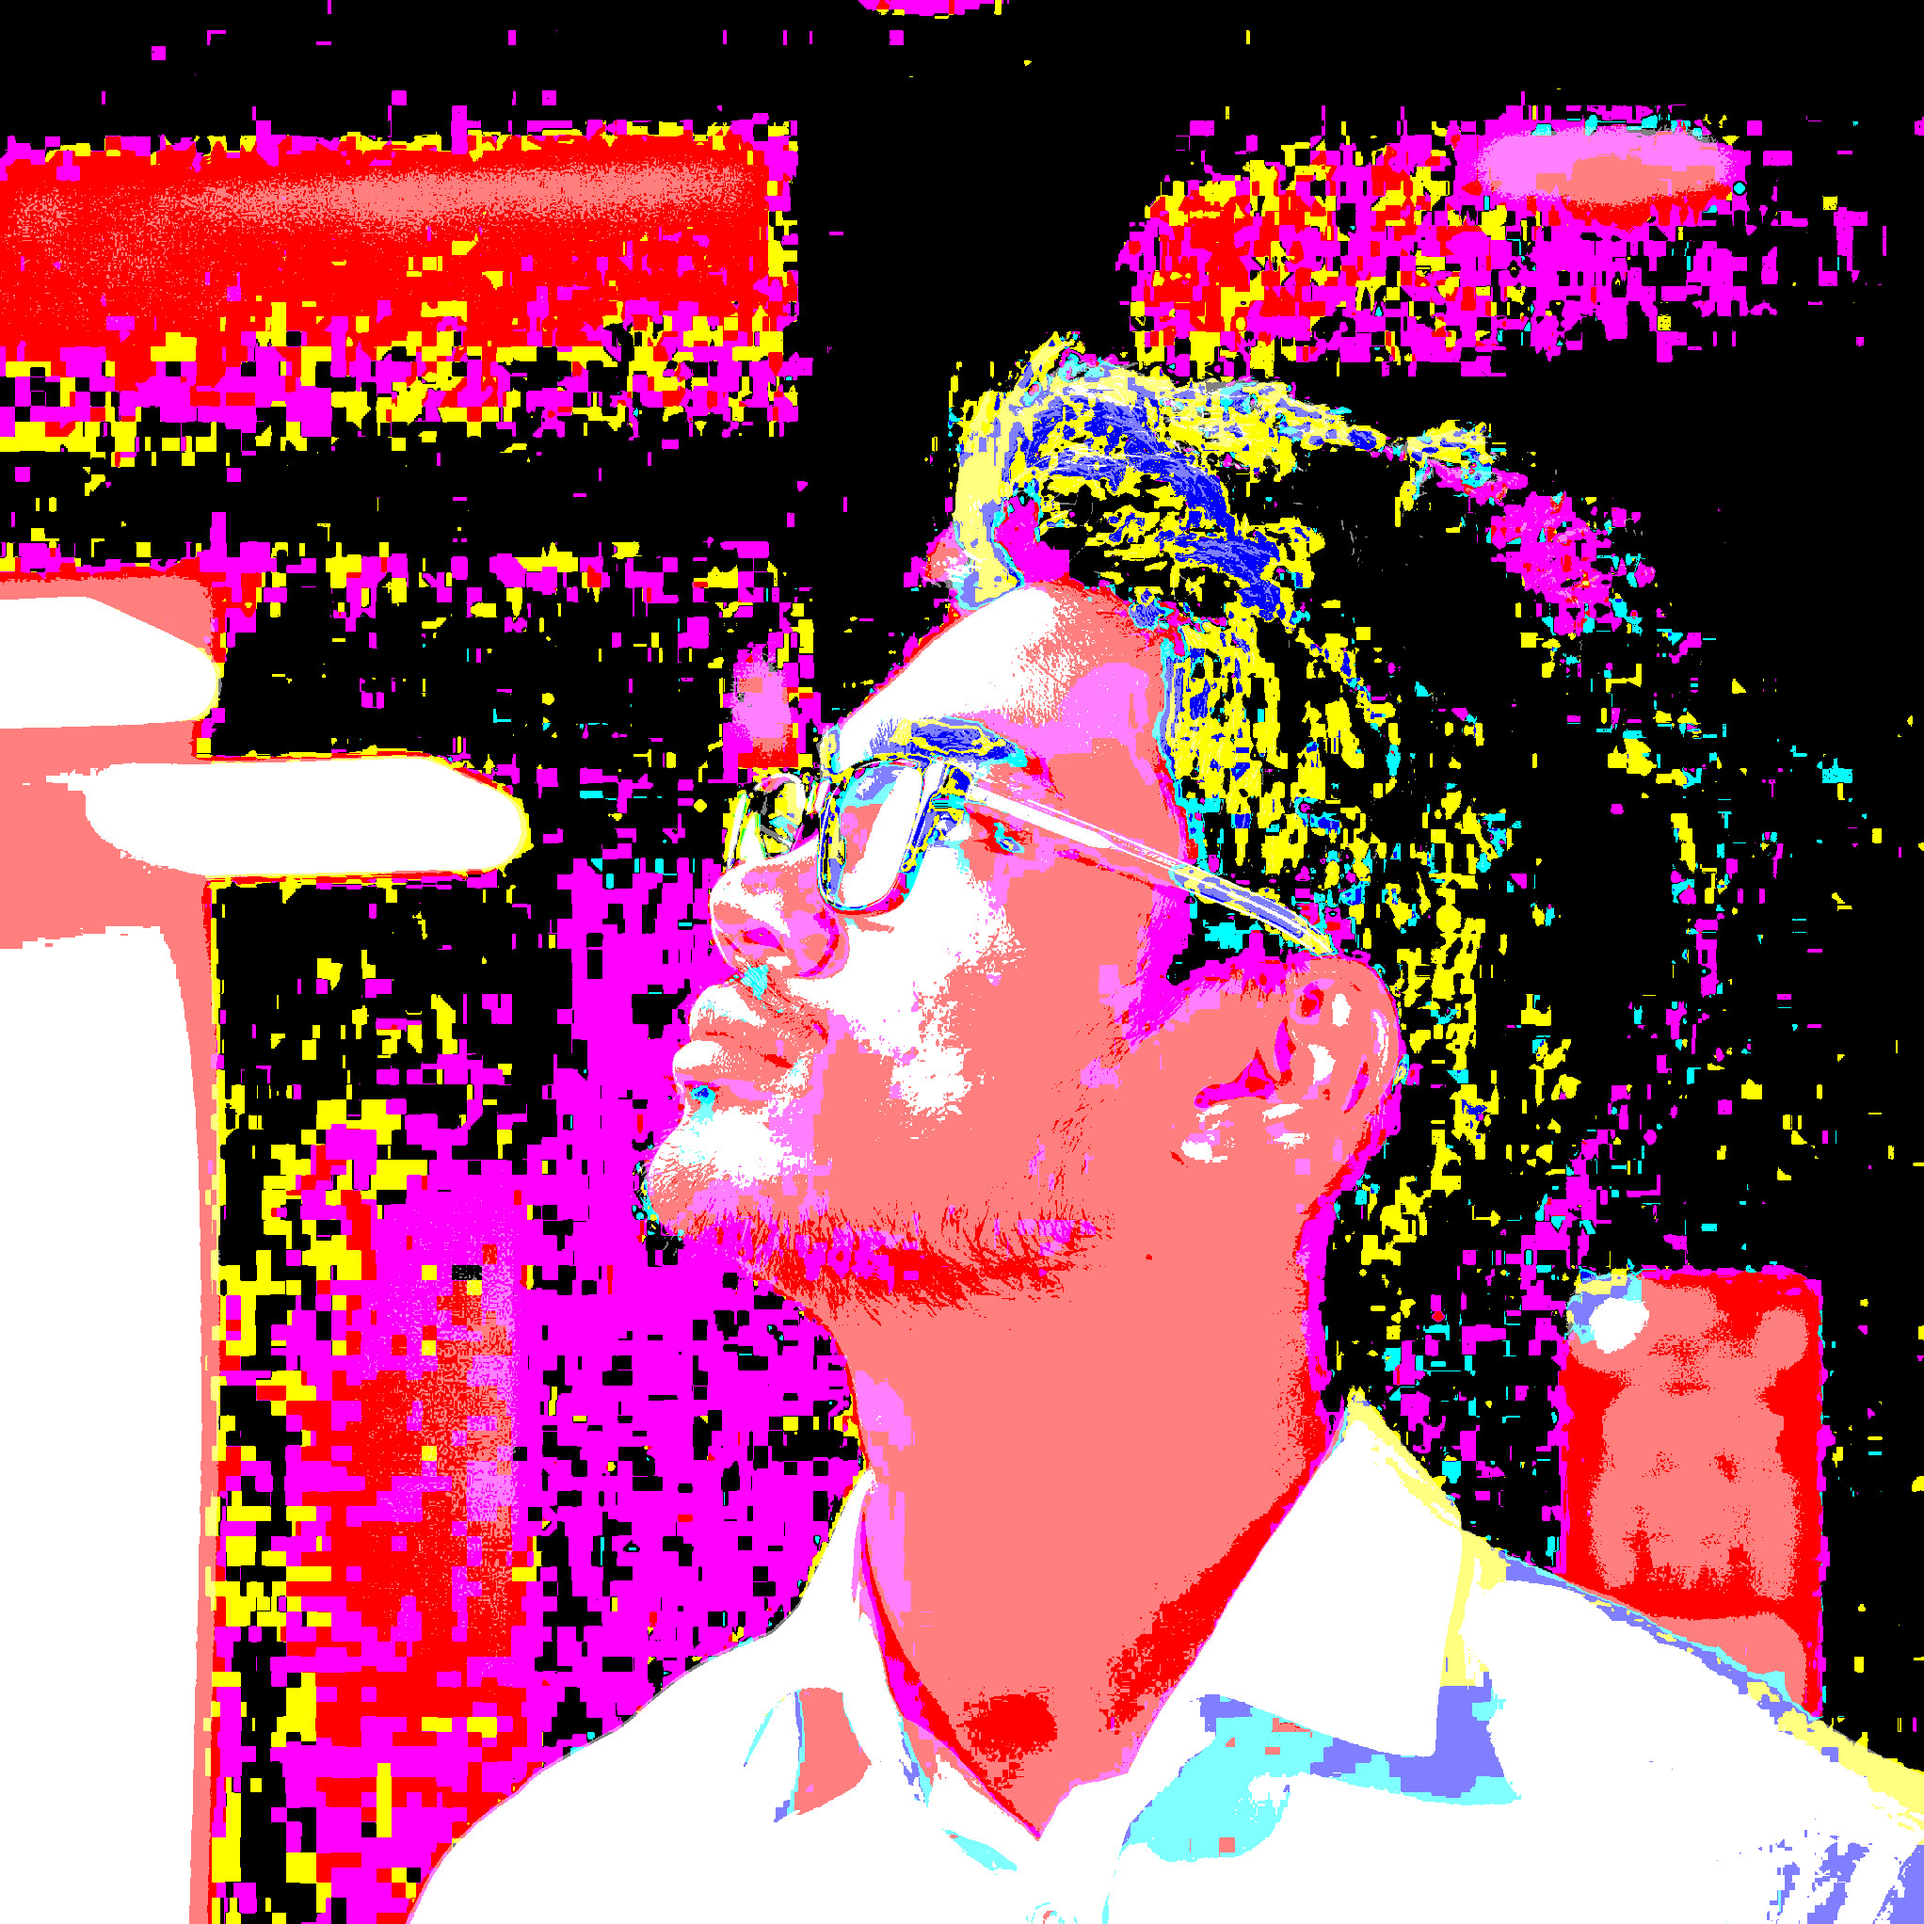
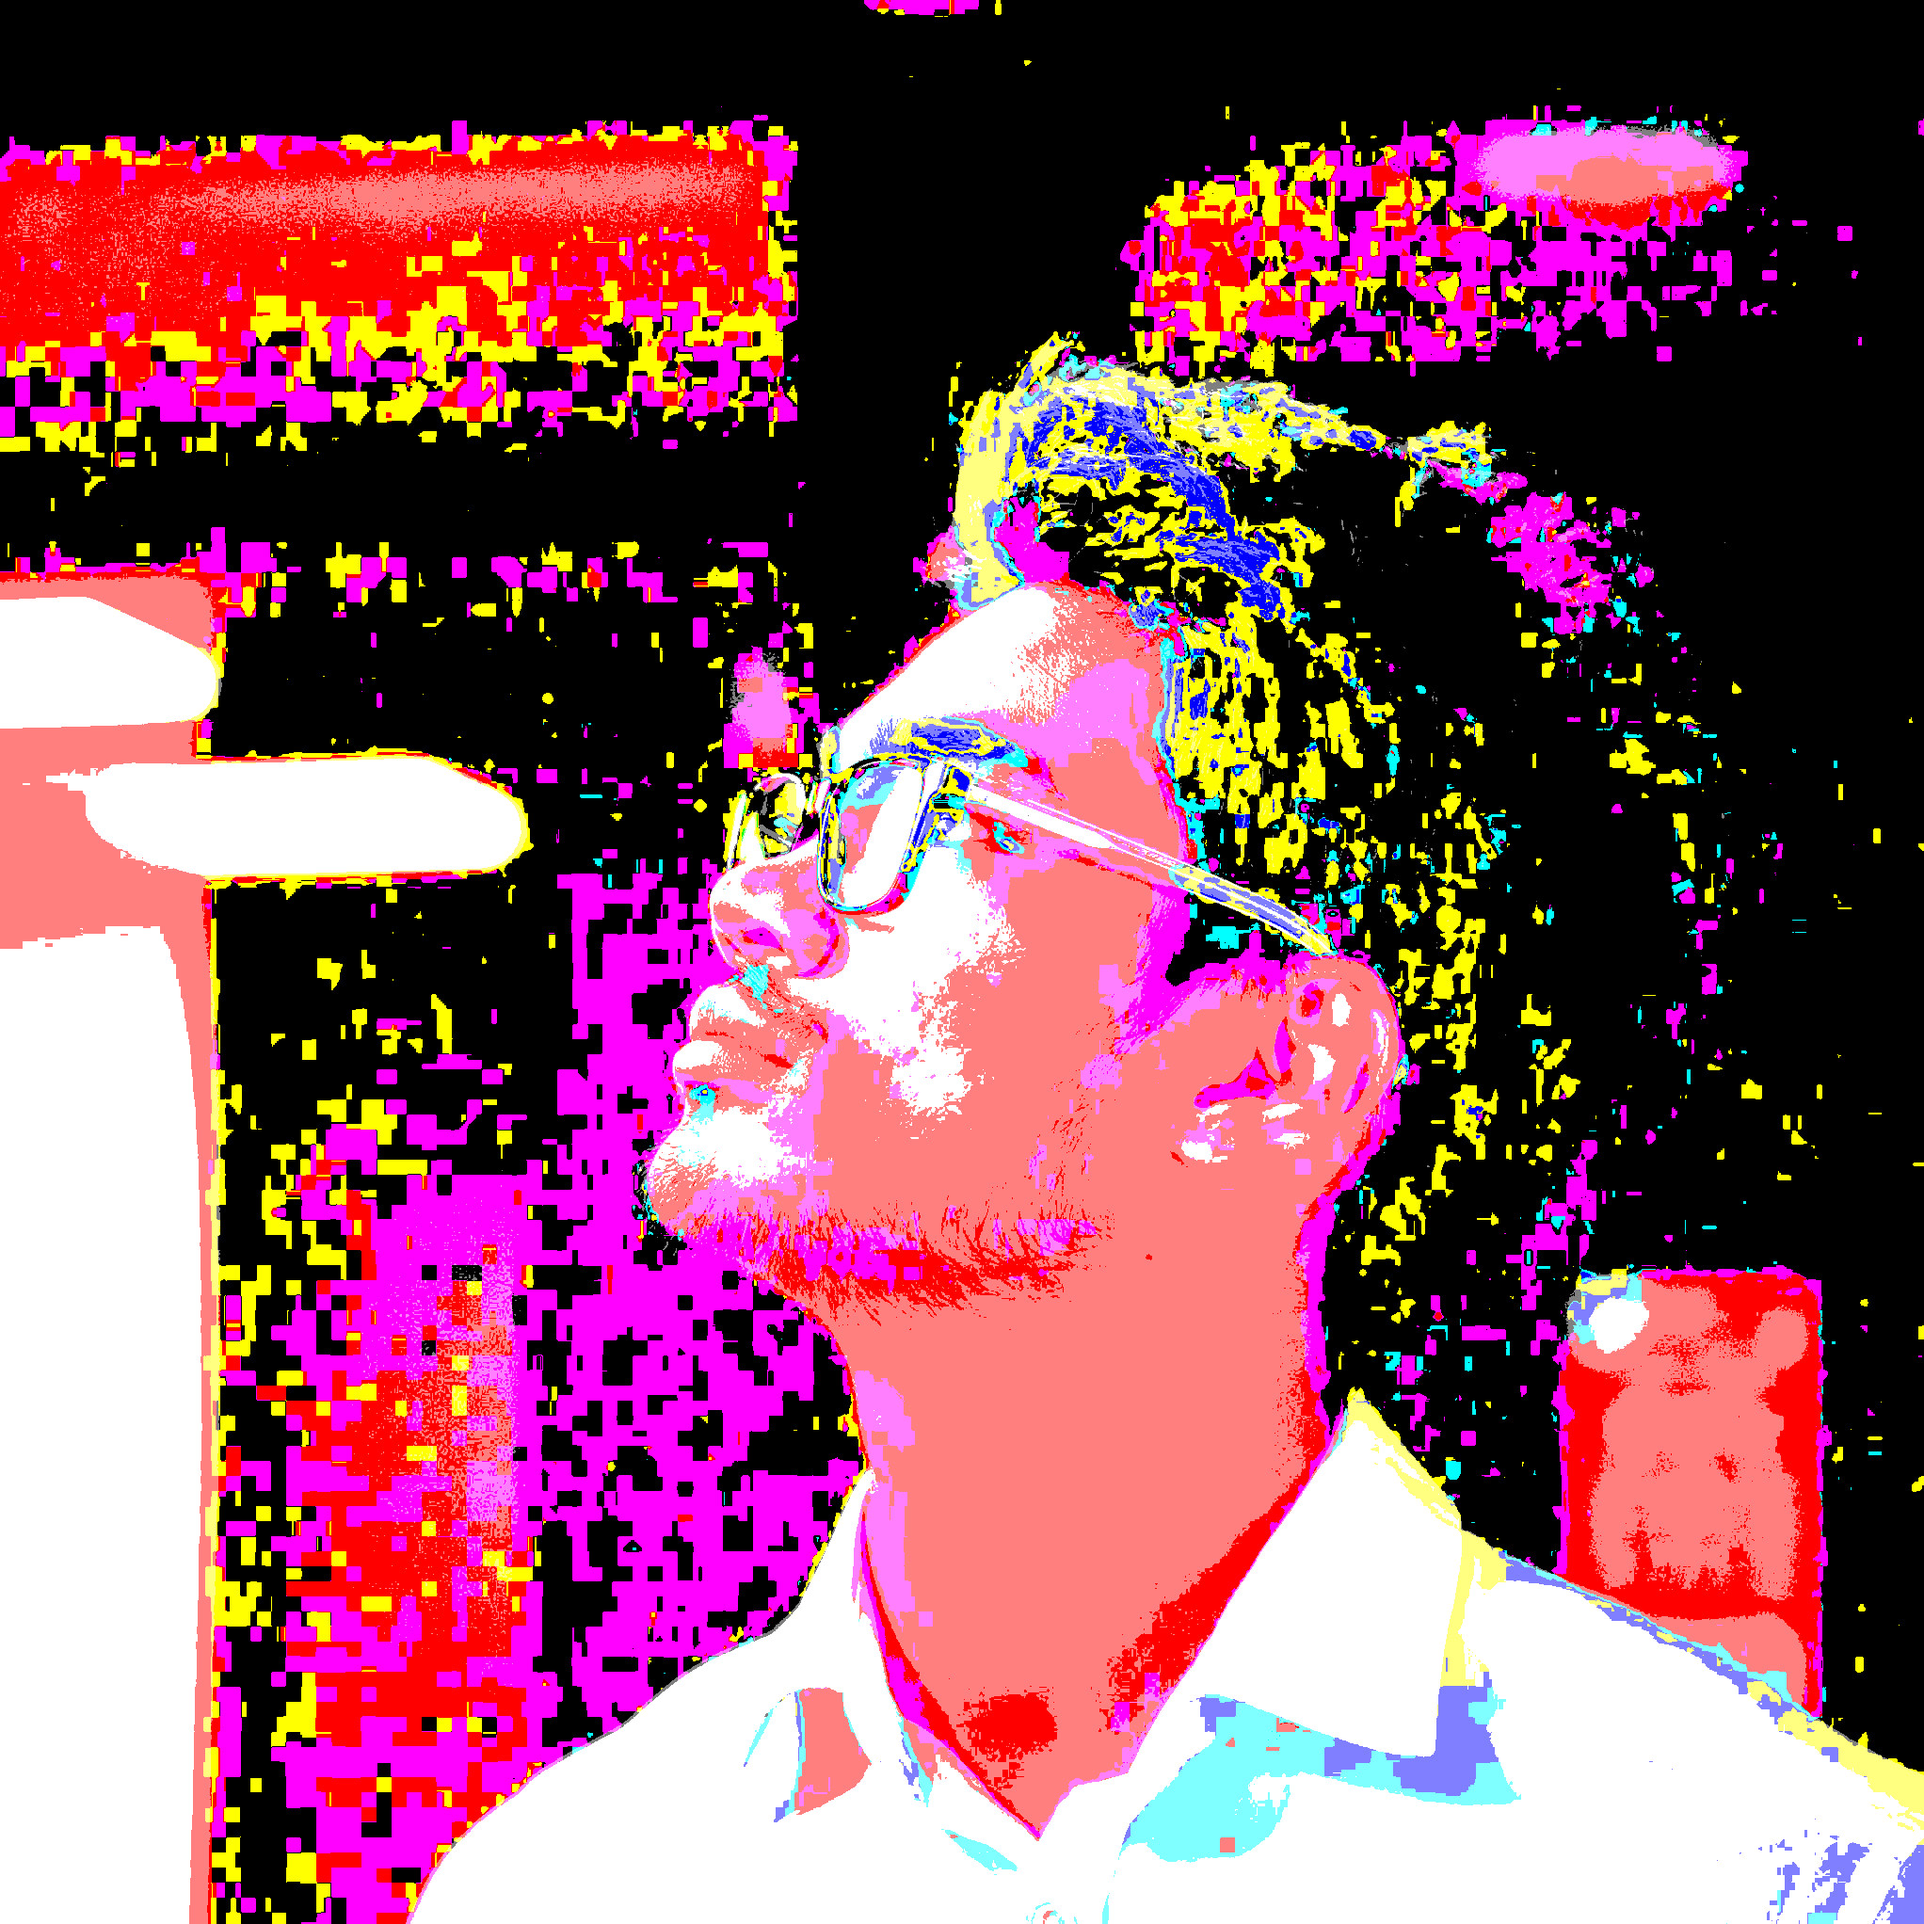
preset

diff --git a/include/image/AnalyzeImage.hpp b/include/image/AnalyzeImage.hpp
@@ -11,11 +11,11 @@
 #include <iostream>
 #include <SFML/Graphics.hpp>
 
-#define MARGING 8
+#define MARGING 15
 
-#define YELLOW sf::Color::Yellow
+#define YELLOW sf::Color::Cyan
 #define MAGENTA sf::Color::Magenta
-#define CYAN sf::Color::Cyan
+#define CYAN sf::Color::Yellow
 #define RED sf::Color::Red
 #define GREEN sf::Color::Green
 #define BLUE sf::Color::Blue

diff --git a/README.md b/README.md
@@ -83,6 +83,7 @@ make
 ```
 
 Original photo :
+<br/>
 <img src="assets/photo_nick.png" alt="Nick">
 
 In the file `include/image/AnalyzeImage.hpp` you have 2 different types of `#define`.
